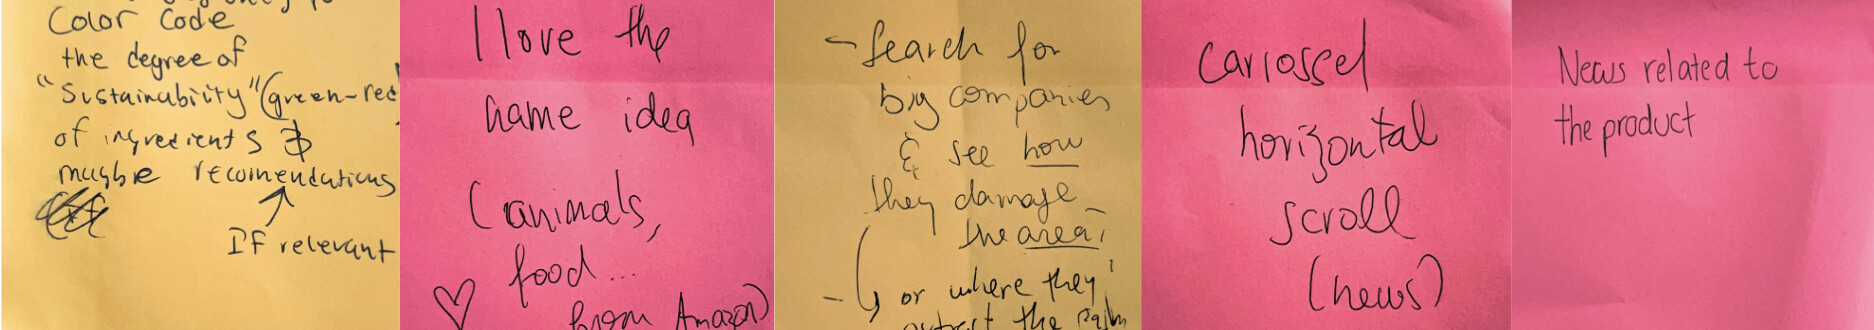
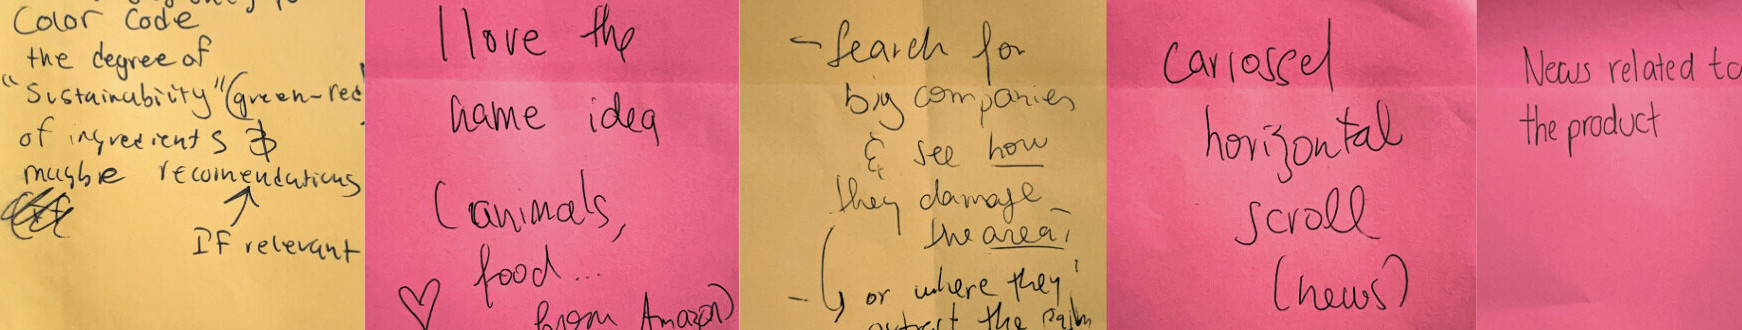
Polish: Notable Pages before Outcome, no-break phrases in CV, projects title, trim feedback.jpg

diff --git a/about.html b/about.html
@@ -95,7 +95,7 @@
       <div class="cv-col">
         <h3 class="cv-head">Experience</h3>
         <div class="cv-entry">
-          <div class="t">Design + Communications Intern</div>
+          <div class="t">Design + Communications&nbsp;Intern</div>
           <div class="s">Pasado's Safe Haven</div>
           <div class="s">April 2026 – Present</div>
         </div>
@@ -105,12 +105,12 @@
           <div class="s">June 2025 – August 2025</div>
         </div>
         <div class="cv-entry">
-          <div class="t">Curatorial Shadow and Docent</div>
+          <div class="t">Curatorial Shadow and&nbsp;Docent</div>
           <div class="s">Bainbridge Island Museum of Art</div>
           <div class="s">August 2024</div>
         </div>
         <div class="cv-entry">
-          <div class="t">Screen Printing Studio Assistant</div>
+          <div class="t">Screen Printing Studio&nbsp;Assistant</div>
           <div class="s">Coyote Central</div>
           <div class="s">August 2024</div>
         </div>
@@ -130,23 +130,23 @@
       <div class="cv-col">
         <h3 class="cv-head">Achievements</h3>
         <ul>
-          <li>Animation featured at Mayrit Bienal '26</li>
-          <li>Photography reposted by VSCO</li>
-          <li>Works Featured at IE University exhibition</li>
-          <li>Selected design Jury for student presentations</li>
-          <li>Exhibition proposal selected</li>
+          <li>Animation featured at Mayrit Bienal&nbsp;'26</li>
+          <li>Photography reposted by&nbsp;VSCO</li>
+          <li>Works Featured at IE University&nbsp;exhibition</li>
+          <li>Selected design Jury for student&nbsp;presentations</li>
+          <li>Exhibition proposal&nbsp;selected</li>
         </ul>
         <h3 class="cv-head">Short Courses</h3>
         <ul>
-          <li>Pratt Institute: Intro to Graphic Design Intensive Course</li>
-          <li>Squak Art Studio: Fine Art Drawing (6 months)</li>
-          <li>Rysunek i Architektura: Japanese Art Techniques</li>
-          <li>Minerva University: Strategic Learning and Growth</li>
-          <li>Minerva University: Adv. Composition and Expressive Clarity</li>
-          <li>The Great Courses: A History of Eastern Europe</li>
-          <li>Languagebird: Italian Culture</li>
-          <li>Teaching is Fire: Public Speaking</li>
-          <li>Teaching is Fire: Writing Composition</li>
+          <li>Pratt Institute: Intro to Graphic Design Intensive&nbsp;Course</li>
+          <li>Squak Art Studio: Fine Art Drawing (6&nbsp;months)</li>
+          <li>Rysunek i Architektura: Japanese Art&nbsp;Techniques</li>
+          <li>Minerva University: Strategic Learning and&nbsp;Growth</li>
+          <li>Minerva University: Adv. Composition and Expressive&nbsp;Clarity</li>
+          <li>The Great Courses: A History of Eastern&nbsp;Europe</li>
+          <li>Languagebird: Italian&nbsp;Culture</li>
+          <li>Teaching is Fire: Public&nbsp;Speaking</li>
+          <li>Teaching is Fire: Writing&nbsp;Composition</li>
         </ul>
       </div>
     </section>

diff --git a/ecobite.html b/ecobite.html
@@ -189,23 +189,9 @@
         </figure>
       </section>
 
-      <!-- ---------- 7. Outcome (final showcase) ---------- -->
+      <!-- ---------- 7. Notable Pages ---------- -->
       <section class="eco-section">
-        <h2 class="eco-h">Outcome</h2>
-
-        <!-- your project video, right under Outcome -->
-        <video class="eco-video" controls preload="metadata" playsinline>
-          <source src="images/ecobite/ecobite.mp4" type="video/mp4" />
-          Your browser doesn't support embedded video.
-        </video>
-
-        <!-- the annotated final design, under the video -->
-        <figure class="drop-slot" data-key="eco-mockup" data-src="images/ecobite/outcome-mockup.jpg">
-          <img alt="Annotated final design" style="display:none" />
-          <span class="slot-hint">Drag your annotated final-design image here<br /><small>images/ecobite/outcome-mockup.jpg</small></span>
-        </figure>
-
-        <p class="eco-subh">Notable Pages</p>
+        <h2 class="eco-h">Notable Pages</h2>
         <figure class="drop-slot" data-key="eco-notable-1" data-src="images/ecobite/notable-1.jpg">
           <img alt="Notable pages" style="display:none" />
           <span class="slot-hint">Drag notable-pages image 1 here<br /><small>images/ecobite/notable-1.jpg</small></span>
@@ -217,6 +203,21 @@
         <figure class="drop-slot" data-key="eco-notable-3" data-src="images/ecobite/notable-3.jpg">
           <img alt="Notable pages" style="display:none" />
           <span class="slot-hint">Drag notable-pages image 3 here<br /><small>images/ecobite/notable-3.jpg</small></span>
+        </figure>
+      </section>
+
+      <!-- ---------- 8. Outcome (final showcase) ---------- -->
+      <section class="eco-section">
+        <h2 class="eco-h">Outcome</h2>
+
+        <video class="eco-video" controls preload="metadata" playsinline>
+          <source src="images/ecobite/ecobite.mp4" type="video/mp4" />
+          Your browser doesn't support embedded video.
+        </video>
+
+        <figure class="drop-slot" data-key="eco-mockup" data-src="images/ecobite/outcome-mockup.jpg">
+          <img alt="Annotated final design" style="display:none" />
+          <span class="slot-hint">Drag your annotated final-design image here<br /><small>images/ecobite/outcome-mockup.jpg</small></span>
         </figure>
       </section>
 

diff --git a/projects.html b/projects.html
@@ -28,7 +28,7 @@
 
   <main class="page">
     <div class="wrap">
-      <h1 class="display">Personal, university, and passion projects</h1>
+      <h1 class="display">Personal and university projects</h1>
       <p class="lead">A collection of my most relevant works, ones that I am specifically proud of and hope to expand my knowledge in. This page is a constant work in progress…</p>
     </div>
 